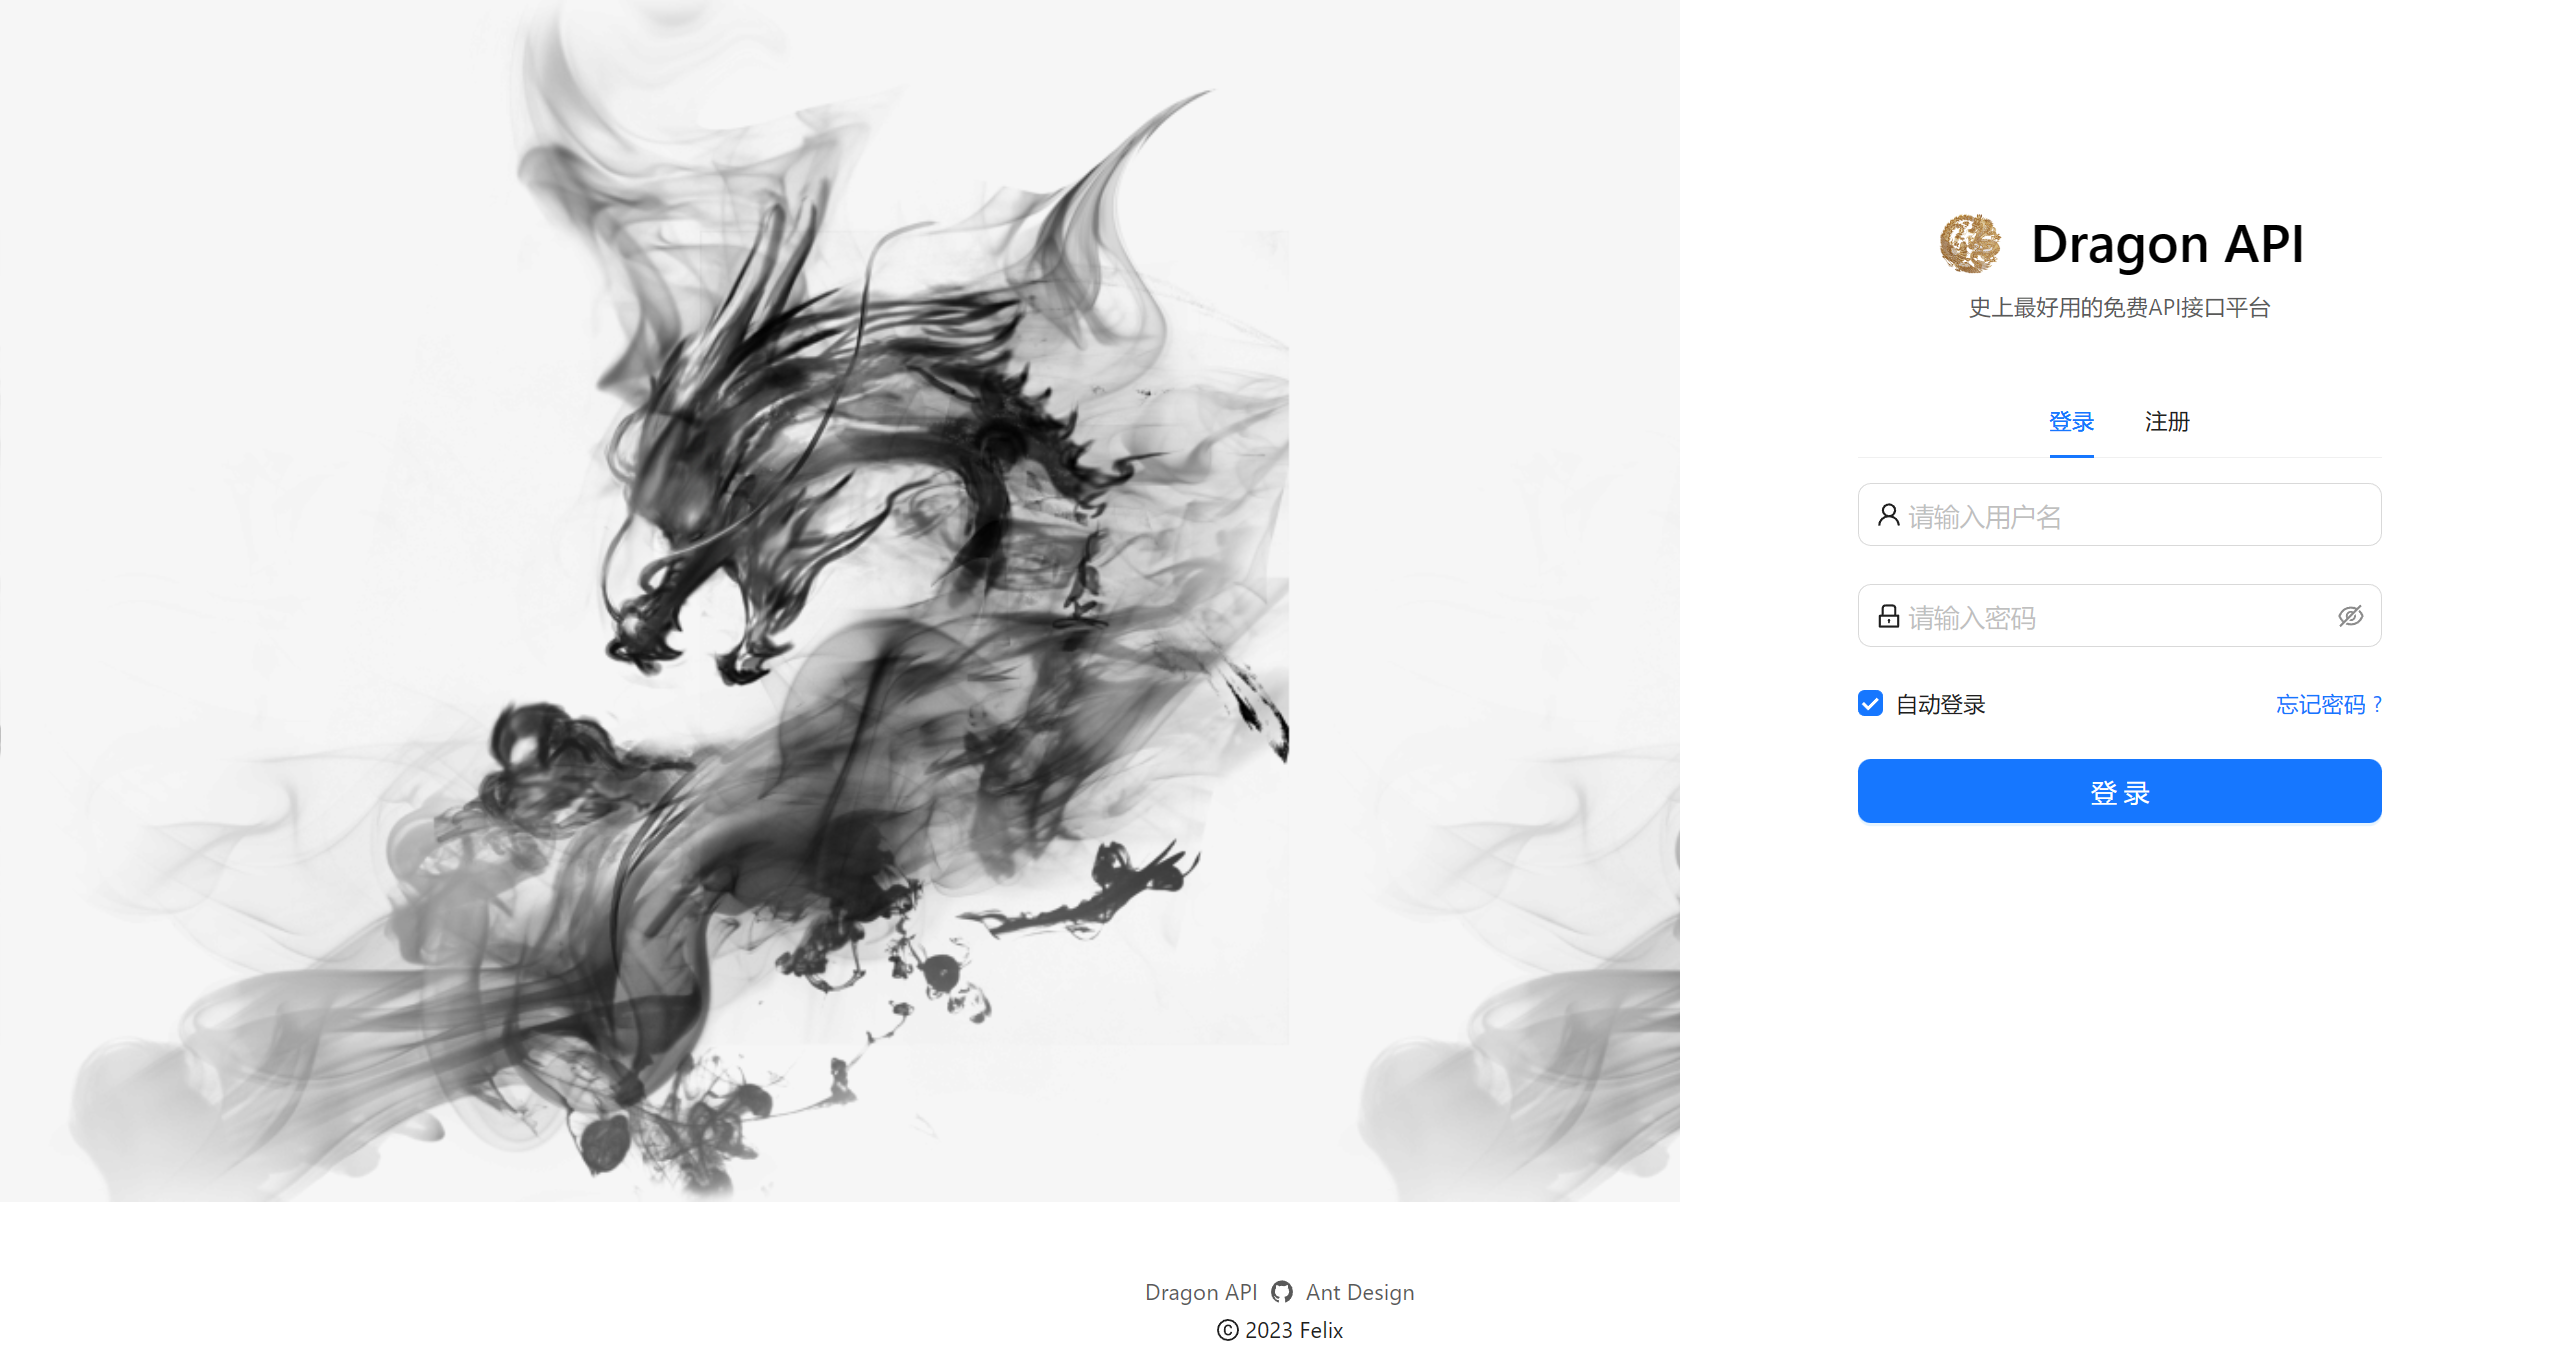
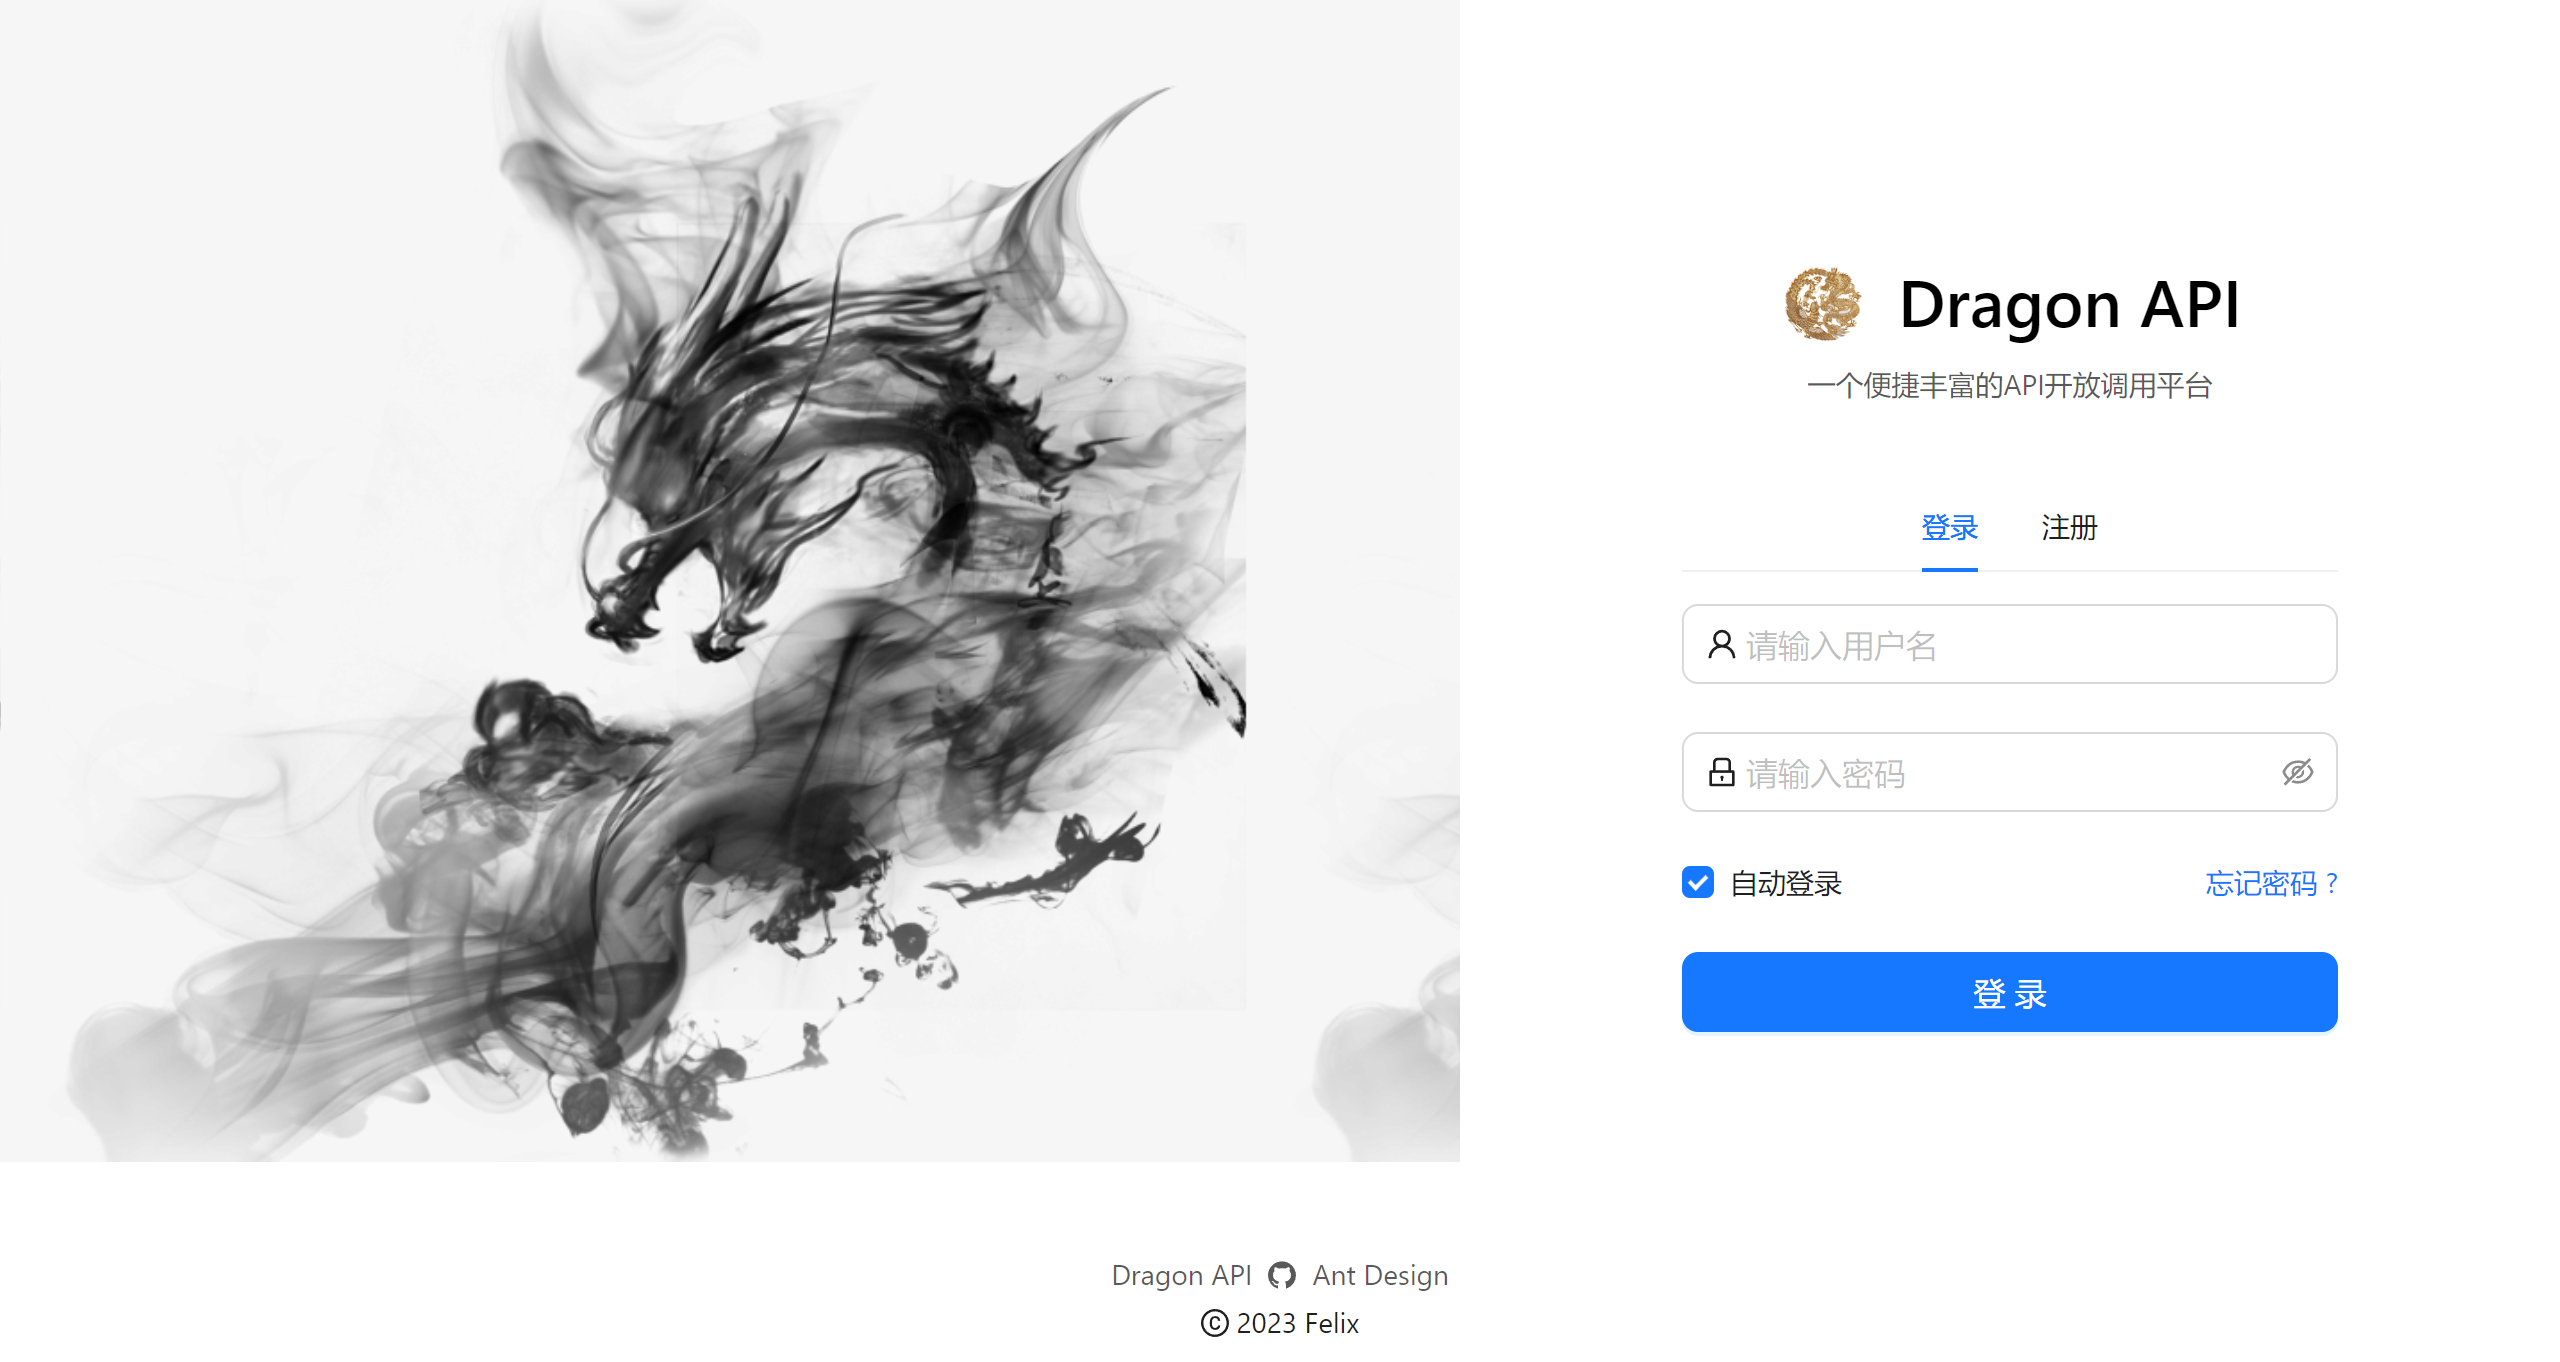
开源介绍更新

diff --git a/README.md b/README.md
@@ -1,4 +1,7 @@
 <h1 align="center">Dragon API</h1>
+<h5 align="center">
+        一个便捷丰富的API开放调用平台
+</h5>
 <div align="center">
     （点击下图封面即可跳转到在线平台）
 </div>
@@ -7,6 +10,7 @@
     <img  src="./img/cover.jpg">
   </a>
 </p>
+
 
 > 管理员账号（仅供测试阶段展示功能）：felix / 12345678
 
@@ -67,18 +71,24 @@
 - Dubbo 分布式（RPC、Nacos）
 - Swagger + Knife4j 接口文档生成
 - Spring Cloud Gateway 微服务网关
+- Sentinel 微服务保护
+- Seata 分布式事务
 - Hutool、Apache Common Utils、Gson 等工具库
 
 
 
 ## ✨ 特性
 
-- 根据业务流程，将整个项目后端划分为 web 系统、模拟接口、公共模块、客户端 SDK、API 网关这 5 个子项目，并使用 Maven 进行**多模块依赖管理**和打包
+- 根据业务流程，将整个项目后端划分为 web 系统、模拟接口、公共模块、客户端 SDK、API 网关这 5 个子项目，并构建为微服务项目，使用 Maven 进行**多模块依赖管理**和打包
 - 为防止接口被恶意调用，设计 **API 签名认证算法**，为用户分配唯一 ak / sk 以鉴权，保障调用的安全性、可溯源性
+
 - 为解决开发者调用成本过高的问题，基于 Spring Boot Starter 开发了**客户端 SDK**，一行代码 即可调用接口，提高开发体验
 - 选用 Spring Cloud Gateway 作为 **API 网关**，实现了路由转发、访问控制、流量染色，并集中处理签名校验、请求参数校验、接口调用统计等业务逻辑，提高安全性的同时、便于系统开发维护
-- 自定义 Spring Cloud Gateway 错误处理Handler，并统一 API 网关异常处理，提高了系统的可维护性和用户体验性
+- 自定义 Spring Cloud gateway 错误处理Handler，并统一 API 网关异常处理，提高了系统的可维护性和用户体验性。
 - 为解决多个子系统内代码大量重复的问题，抽象模型层和业务层代码为公共模块，并使用 Dubbo RPC 框架实现子系统间的**高性能接口调用**，大幅减少重复代码
+- 对服务进行压测后根据负载结果使用 Sentinel 对接口调用服务进行**流量控制**，并对响应缓慢和异常的接口进行**熔断和降级**
+
+- 使用 **Seata** 实现**分布式事务管理**，以确保接口调用过程中用户调用记录、接口调用统计等服务的数据一致性
 
 
 
@@ -148,6 +158,6 @@ npm run dev
 
 #### ⚙后端：
 
-配置本地mysql、redis、nacos、dubbo后，使用maven工具对api-common模块和api-client-sdk模块进行install，然后依次运行api-interface、api-admin和api-gateway模块。
+配置本地mysql、redis、nacos、dubbo、sentinel、seata后修改 application.yml 文件，使用maven工具对api-common模块和api-client-sdk模块进行install，然后依次运行api-interface、api-admin和api-gateway模块。
 
 💡 部分敏感信息已脱敏处理，需自行配置后才能运行
